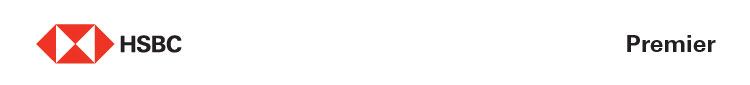
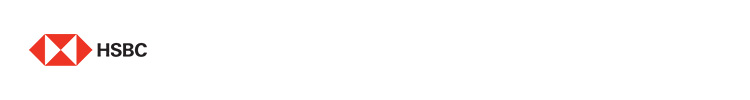
Add HSBC header options: regular + premier header templates

Changed region(s): [[0.0307, 0.2824, 0.2453, 0.7529], [0.828, 0.4, 0.9813, 0.6118], [0.8893, 0.4235, 0.92, 0.4471]]

diff --git a/tools/assembler.html b/tools/assembler.html
@@ -39,7 +39,8 @@
             <label for="header-select">Header template</label>
             <select id="header-select">
               <option value="none">None</option>
-              <option value="header" selected>HSBC Premier Header</option>
+              <option value="header" selected>HSBC Header</option>
+              <option value="header-premier">HSBC Premier Header</option>
             </select>
           </div>
           <div class="field">

diff --git a/tools/js/assembler.js b/tools/js/assembler.js
@@ -3,7 +3,8 @@
 var $=function(s){return document.querySelector(s)};
 
 var TEMPLATES={
-  header:{src:'../assets/header.jpg',name:'HSBC Premier Header'},
+  header:{src:'../assets/header.jpg',name:'HSBC Header'},
+  'header-premier':{src:'../assets/header-premier.jpg',name:'HSBC Premier Header'},
   footer:{src:'../assets/footer.jpg',name:'Standard Footer'},
   'footer-mobile':{src:'../assets/footer-with-mobile.jpg',name:'Footer + Mobile App'}
 };
